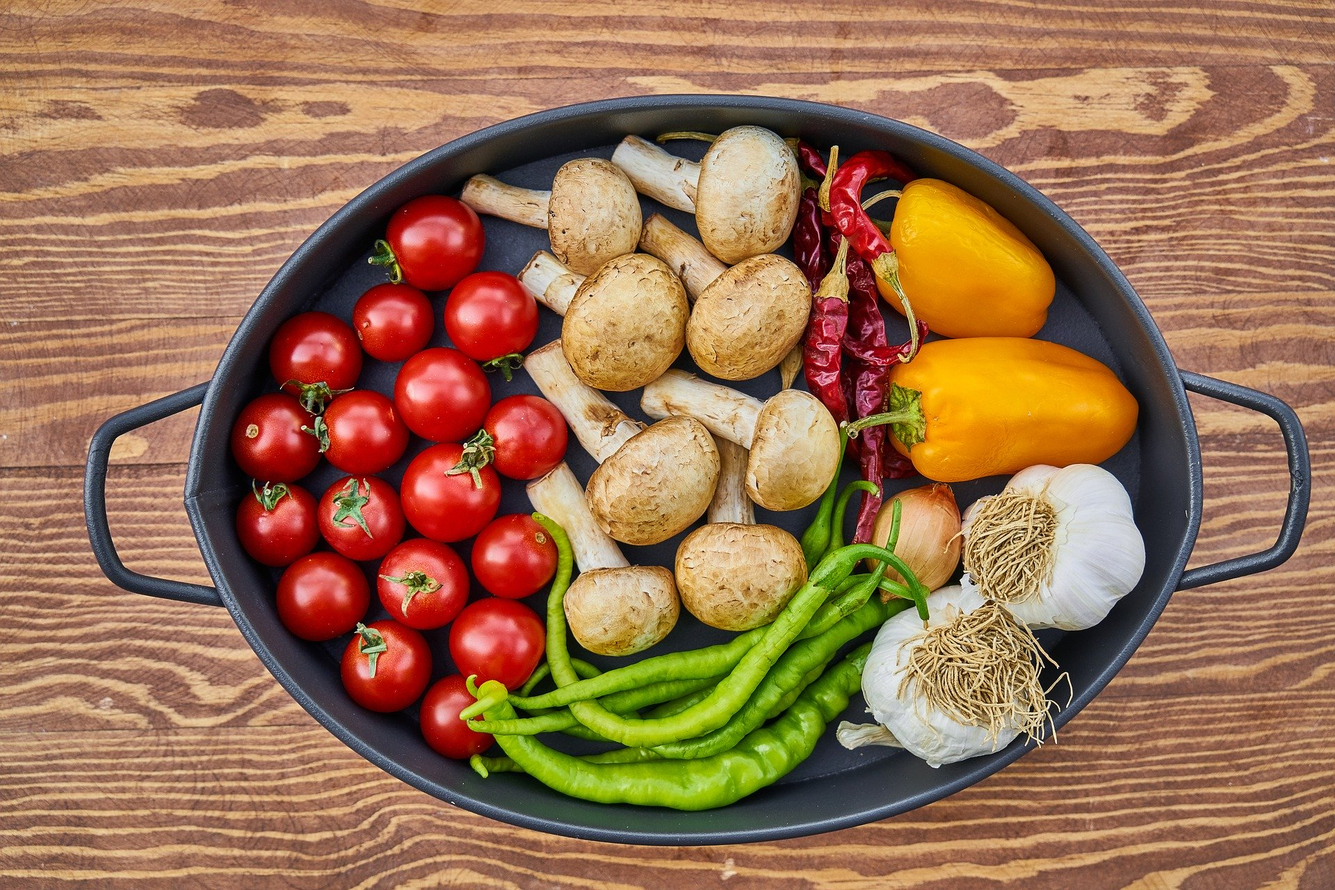
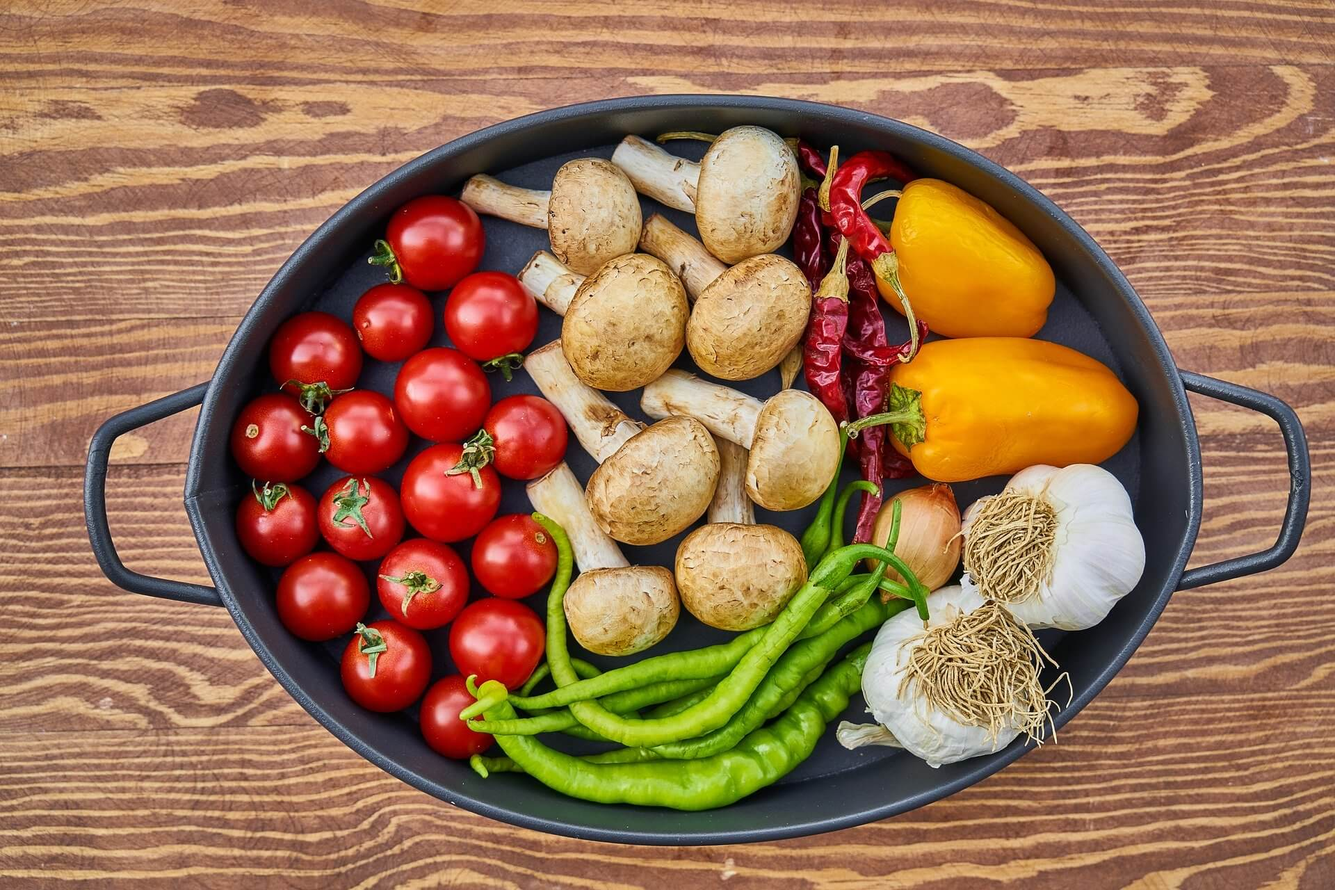
Add service worker and compress background photo

diff --git a/service-worker.js b/service-worker.js
@@ -1,0 +1,55 @@
+var VERSION = '24';
+
+this.addEventListener('install', function(e) {
+  e.waitUntil(caches.open(VERSION).then(cache => {
+    return cache.addAll([]);
+  }))
+});
+
+this.addEventListener('fetch', function(e) {
+  var tryInCachesFirst = caches.open(VERSION).then(cache => {
+    return cache.match(e.request).then(response => {
+      if (!response) {
+        return handleNoCacheMatch(e);
+      }
+      // Update cache record in the background
+      fetchFromNetworkAndCache(e);
+      // Reply with stale data
+      return response
+    });
+  });
+  e.respondWith(tryInCachesFirst);
+});
+
+this.addEventListener('activate', function(e) {
+  e.waitUntil(caches.keys().then(keys => {
+    return Promise.all(keys.map(key => {
+      if (key !== VERSION)
+        return caches.delete(key);
+    }));
+  }));
+});
+
+function fetchFromNetworkAndCache(e) {
+  // DevTools opening will trigger these o-i-c requests, which this SW can't handle.
+  // There's probaly more going on here, but I'd rather just ignore this problem. :)
+  // https://github.com/paulirish/caltrainschedule.io/issues/49
+  if (e.request.cache === 'only-if-cached' && e.request.mode !== 'same-origin') return;
+
+  return fetch(e.request).then(res => {
+    // foreign requests may be res.type === 'opaque' and missing a url
+    if (!res.url) return res;
+    // regardless, we don't want to cache other origin's assets
+    if (new URL(res.url).origin !== location.origin) return res;
+
+    return caches.open(VERSION).then(cache => {
+      // TODO: figure out if the content is new and therefore the page needs a reload.
+      cache.put(e.request, res.clone());
+      return res;
+    });
+  }).catch(err => console.error(e.request.url, err));
+}
+
+function handleNoCacheMatch(e) {
+  return fetchFromNetworkAndCache(e);
+}

diff --git a/index.html b/index.html
@@ -4,8 +4,8 @@
 <head>
     <meta charset="UTF-8">
     <meta name="viewport" content="width=device-width, initial-scale=1.0">
-    <link rel="manifest" href="manifest.json">
     <title>Lista zakupów</title>
+    <link rel="manifest" href="manifest.json?v=1.0.0">
     <link rel="stylesheet" href="https://use.fontawesome.com/releases/v5.13.0/css/all.css"
         integrity="sha384-Bfad6CLCknfcloXFOyFnlgtENryhrpZCe29RTifKEixXQZ38WheV+i/6YWSzkz3V" crossorigin="anonymous">
     <link href="https://fonts.googleapis.com/icon?family=Material+Icons" rel="stylesheet">

diff --git a/modules/pwa.js b/modules/pwa.js
@@ -1,0 +1,12 @@
+export const registerSW = () => {
+    if ('serviceWorker' in navigator) {
+    window.addEventListener('load', function() {
+    navigator.serviceWorker.register('service-worker.js')
+    .then(function(registration) {
+        console.log('ServiceWorker registration successful with scope: ', registration.scope);
+        }, function(err) {
+        console.log('ServiceWorker registration failed: ', err);
+        });
+    });
+}
+}

diff --git a/main.js b/main.js
@@ -1,5 +1,9 @@
 import { displayShoppingList, addProduct, changeProductStatus } from './modules/functions.js';
+import {registerSW} from './modules/pwa.js';
 export { form, productsBox, productsList };
+
+registerSW();
+
 
 const form = document.querySelector('.form--js');
 const productsBox = document.querySelector('.products-list--js');
